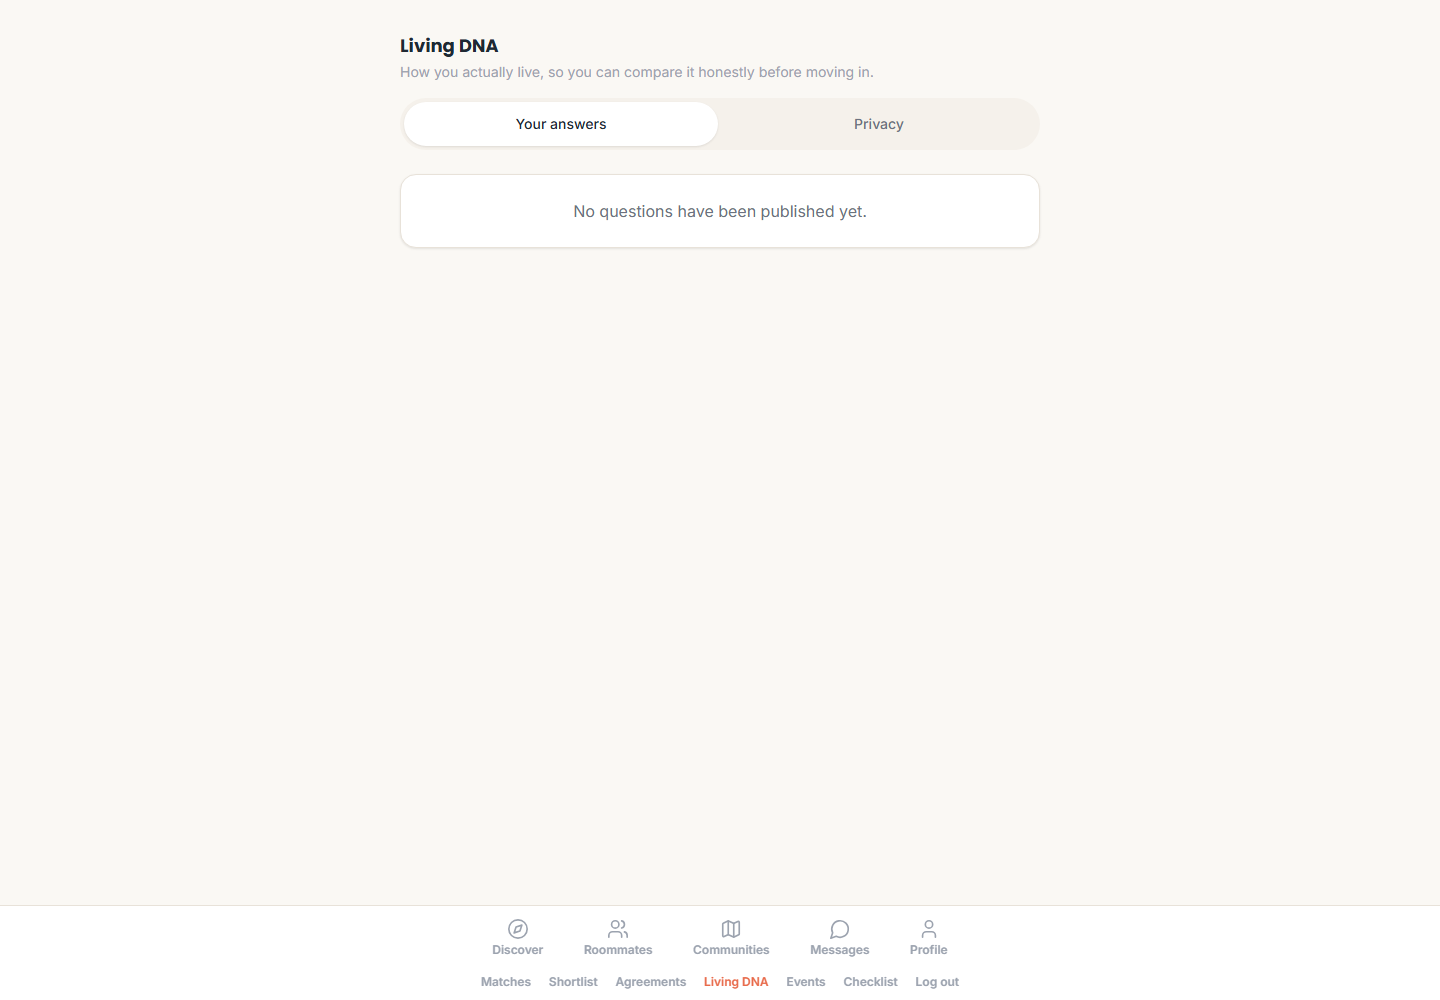
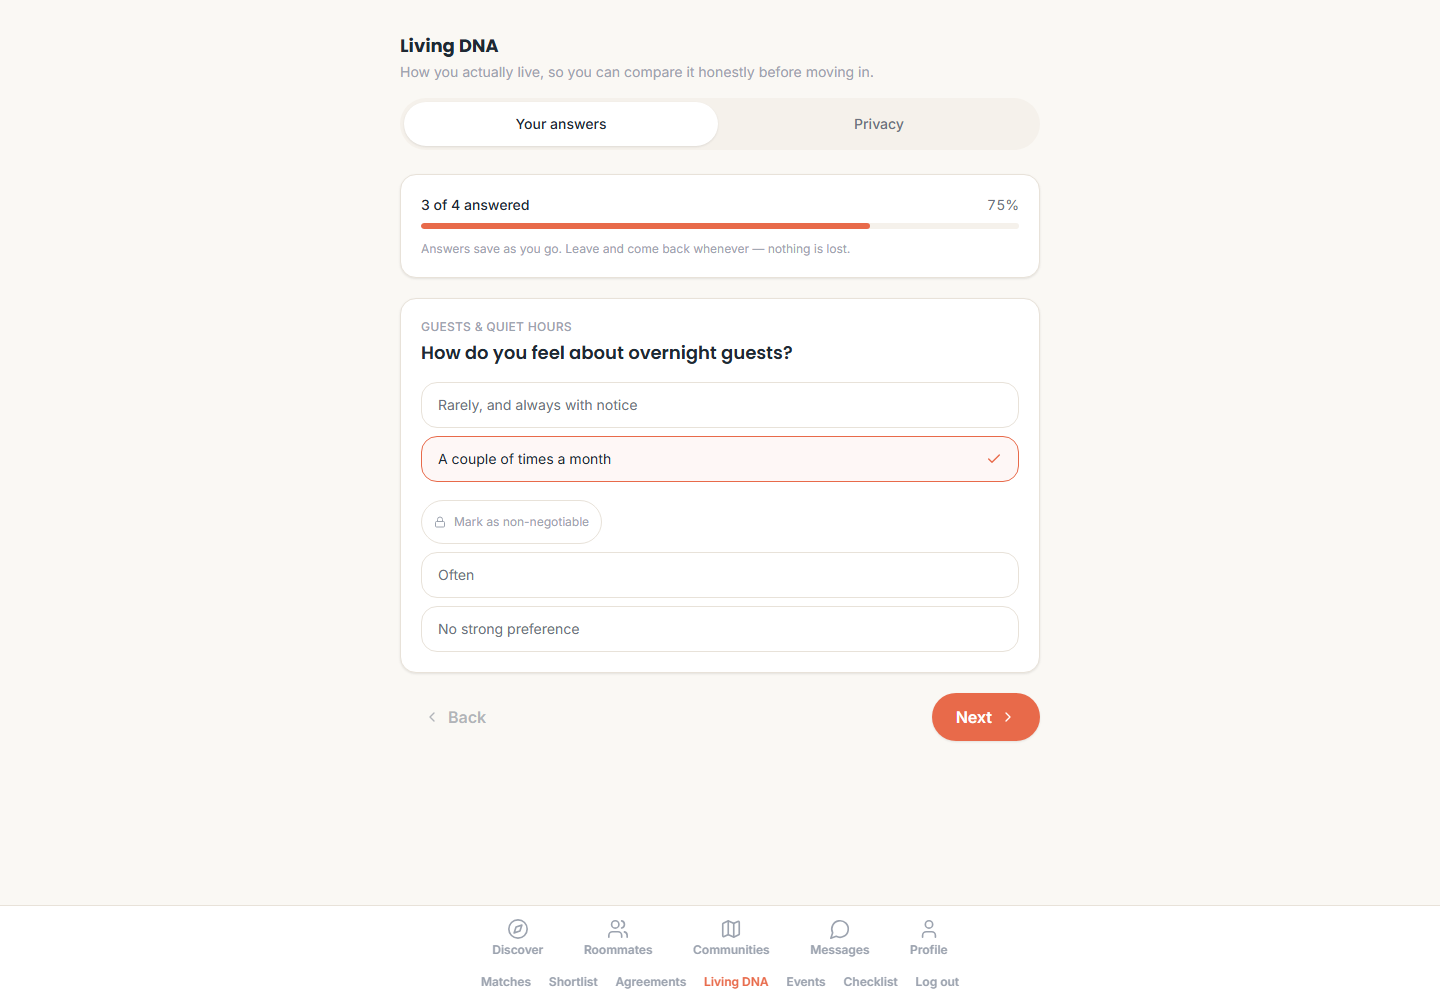
test(audit): real Living DNA fixtures, and detach the boundary toggle
The Living DNA screenshots were worthless. The audit script had no fixtures for
that screen at all, so populated, empty and error all rendered the same "No
questions have been published yet". Six screenshots proved nothing about the
questionnaire, the progress bar, the privacy tab, the comparison or the
Constitution.

The fixtures now follow the contracts read out of the route implementations
rather than invented for the mock:

  GET /living-dna/questions      -> [{ id, slug, category, prompt, options, position }]
  GET /living-dna/me             -> { answers, sharing, answered, total, complete }
  GET /living-dna/compare/:id    -> { pairs, aligned, different, notAnsweredByThem, note }
  GET /living-dna/constitution/:id -> { rules, acceptedBy, iHaveAccepted,
                                         theyHaveAccepted, mutuallyAccepted, agreedRules }

The partner views live behind ?with=<id>, which is how LivingDnaPage decides
whether to open on the answers tab or the comparison tab, so the compare state
loads that route. Answers are 3 of 4 so progress is real rather than 0% or
100%. Sharing is off in both directions, matching the private-by-default the
API enforces. The comparison fixture has both sides sharing, with two aligned
answers and one difference. The Constitution fixture has one accepted and one
not, so the dual-acceptance state is the one that gets rendered.

Nothing about consent, privacy defaults, authorization or account isolation was
[…]

diff --git a/frontend-react/src/pages/LivingDnaPage.jsx b/frontend-react/src/pages/LivingDnaPage.jsx
@@ -61,7 +61,10 @@ function OptionRow({ option, selected, isBoundary, onSelect, onToggleBoundary })
           type="button"
           onClick={() => onToggleBoundary(!isBoundary)}
           aria-pressed={isBoundary}
-          className={`flex min-h-[44px] items-center gap-2 self-start rounded-pill border px-3 text-xs transition-colors motion-reduce:transition-none focus-visible:outline-2 focus-visible:outline-offset-2 focus-visible:outline-brand-coral ${
+          // Sat flush between two answer options, so it read as a third option
+          // rather than a control that belongs to the one above it. Extra
+          // leading space detaches it without touching the option list.
+          className={`flex min-h-[44px] items-center gap-2 self-start mt-3 rounded-pill border px-3 text-xs transition-colors motion-reduce:transition-none focus-visible:outline-2 focus-visible:outline-offset-2 focus-visible:outline-brand-coral ${
             isBoundary
               ? 'border-brand-teal bg-brand-teal/10 text-brand-teal-dark'
               : 'border-surface-border text-text-muted hover:border-brand-teal/50'
